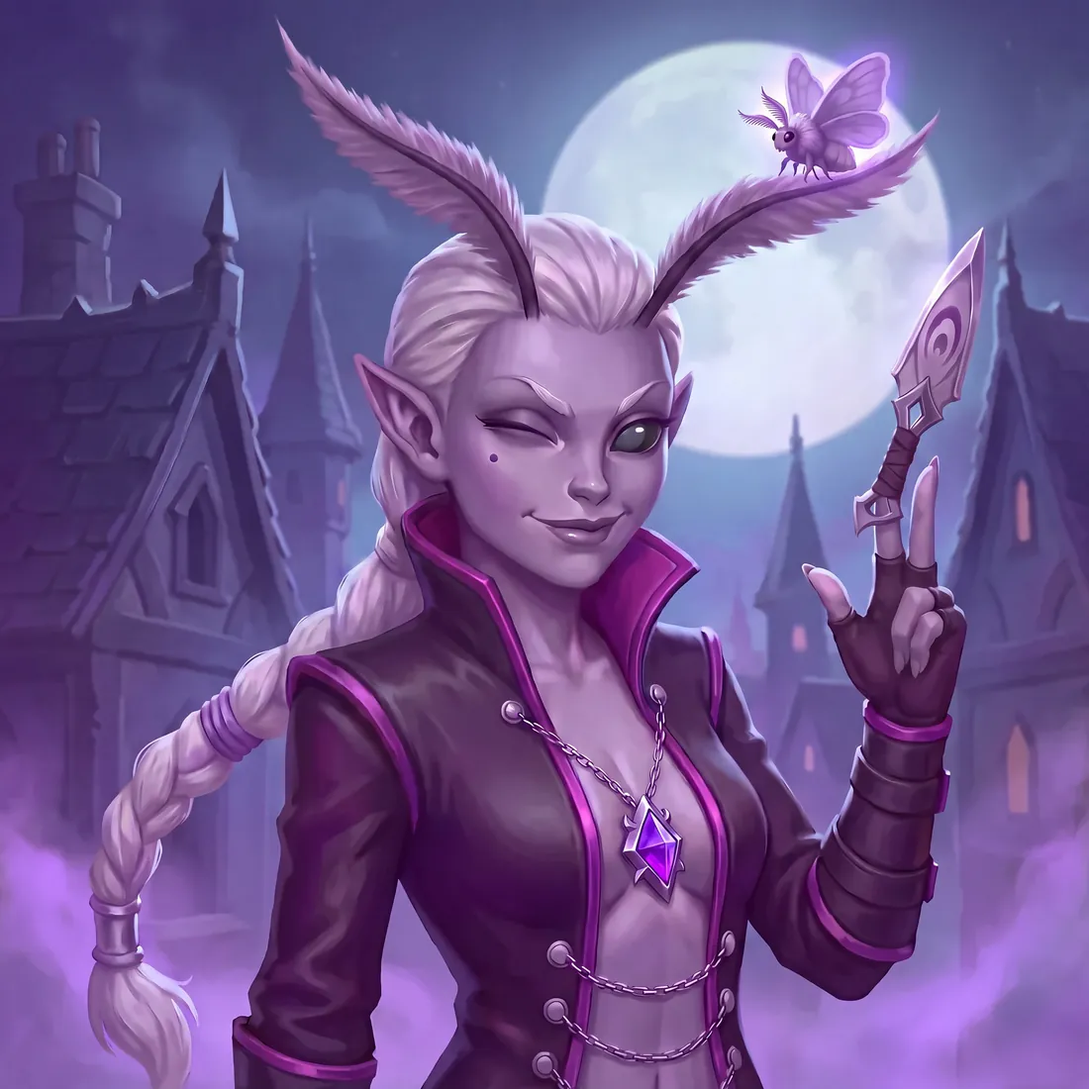
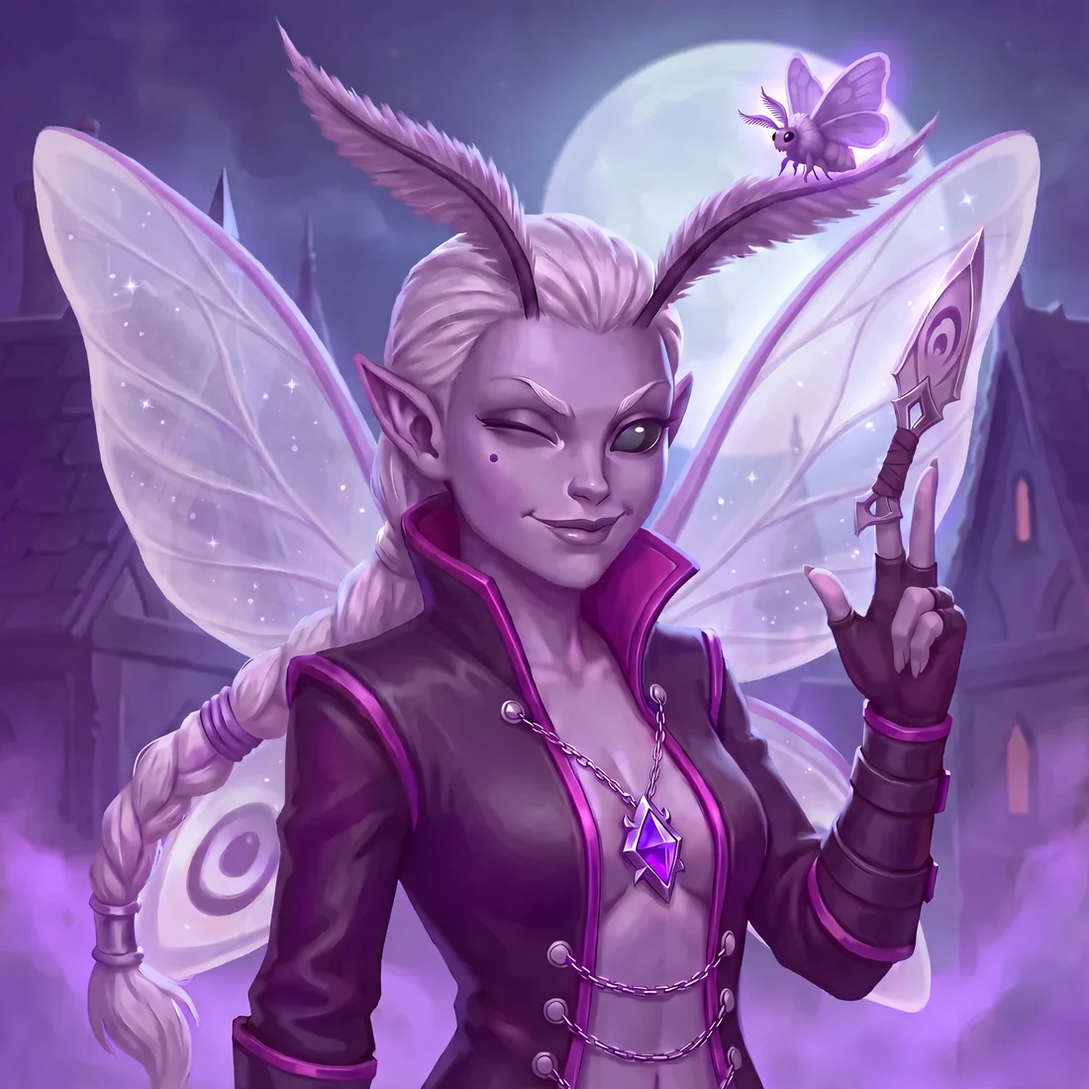
New Sable portrait
Claude-Session: https://claude.ai/code/session_015vSSPmpJoF22Rm1LS1od6V

diff --git a/index.html b/index.html
@@ -21,7 +21,7 @@
 <link rel="preload" href="assets/fonts/LilitaOne.woff2" as="font" type="font/woff2" crossorigin>
 <link rel="preload" as="image" href="assets/img/wordmark-boki-1280.webp" imagesrcset="assets/img/wordmark-boki-640.webp 640w, assets/img/wordmark-boki-1280.webp 1280w, assets/img/wordmark-boki-2000.webp 2000w" imagesizes="(max-width: 720px) 90vw, 720px">
 
-<link rel="stylesheet" href="assets/style.css?v=155">
+<link rel="stylesheet" href="assets/style.css?v=156">
 <script>
   // Hold the hero until the display font is in, so nothing jumps on load.
   (function (d) {
@@ -66,7 +66,7 @@
 <div class="hero-wrap">
 <section class="hero" id="hero" aria-label="Project Boki">
   <div class="hero-media" id="hero-media" aria-hidden="true">
-    <div class="cast"><ul class="row r0"><li><img src="assets/img/hunters/vex-face-640.webp" width="640" height="640" alt=""></li><li><img src="assets/img/hunters/motley-face-640.webp" width="640" height="640" alt=""></li><li><img src="assets/img/hunters/kael-face-640.webp" width="640" height="640" alt=""></li><li><img src="assets/img/hunters/claire-face-640.webp" width="640" height="640" alt=""></li><li><img src="assets/img/hunters/cinder-face-640.webp" width="640" height="640" alt=""></li><li><img src="assets/img/hunters/sable-face-640.webp" width="640" height="640" alt=""></li><li><img src="assets/img/hunters/ryzz-face-640.webp" width="640" height="640" alt=""></li><li><img src="assets/img/hunters/grimble-face-640.webp" width="640" height="640" alt=""></li><li><img src="assets/img/hunters/pip-face-640.webp" width="640" height="640" alt=""></li><li><img src="assets/img/hunters/breaker-face-640.webp" width="640" height="640" alt=""></li><li><img src="assets/img/hunters/lisette-face-640.webp" width="640" height="640" alt=""></li><li><img src="assets/img/hunters/tarek-face-640.webp" width="640" height="640" alt=""></li><li><img src="assets/img/hunters/vex-face-640.webp" width="640" height="640" alt=""></li><li><img src="assets/img/hunters/motley-face-640.webp" width="640" height="640" alt=""></li><li><img src="assets/img/hunters/kael-face-640.webp" width="640" height="640" alt=""></li><li><img src="assets/img/hunters/claire-face-640.webp" width="640" height="640" alt=""></li><li><img src="assets/img/hunters/cinder-face-640.webp" width="640" height="640" alt=""></li><li><img src="assets/img/hunters/sable-face-640.webp" width="640" height="640" alt=""></li><li><img src="assets/img/hunters/ryzz-face-640.webp" width="640" height="640" alt=""></li><li><img src="assets/img/hunters/grimble-face-640.webp" width="640" height="640" alt=""></li><li><img src="assets/img/hunters/pip-face-640.webp" width="640" height="640" alt=""></li><li><img src="assets/img/hunters/breaker-face-640.webp" width="640" height="640" alt=""></li><li><img src="assets/img/hunters/lisette-face-640.webp" width="640" height="640" alt=""></li><li><img src="assets/img/hunters/tarek-face-640.webp" width="640" height="640" alt=""></li></ul><ul class="row r1"><li><img src="assets/img/hunters/pip-face-640.webp" width="640" height="640" alt=""></li><li><img src="assets/img/hunters/tarek-face-640.webp" width="640" height="640" alt=""></li><li><img src="assets/img/hunters/lisette-face-640.webp" width="640" height="640" alt=""></li><li><img src="assets/img/hunters/ryzz-face-640.webp" width="640" height="640" alt=""></li><li><img src="assets/img/hunters/motley-face-640.webp" width="640" height="640" alt=""></li><li><img src="assets/img/hunters/vex-face-640.webp" width="640" height="640" alt=""></li><li><img src="assets/img/hunters/breaker-face-640.webp" width="640" height="640" alt=""></li><li><img src="assets/img/hunters/claire-face-640.webp" width="640" height="640" alt=""></li><li><img src="assets/img/hunters/sable-face-640.webp" width="640" height="640" alt=""></li><li><img src="assets/img/hunters/kael-face-640.webp" width="640" height="640" alt=""></li><li><img src="assets/img/hunters/grimble-face-640.webp" width="640" height="640" alt=""></li><li><img src="assets/img/hunters/cinder-face-640.webp" width="640" height="640" alt=""></li><li><img src="assets/img/hunters/pip-face-640.webp" width="640" height="640" alt=""></li><li><img src="assets/img/hunters/tarek-face-640.webp" width="640" height="640" alt=""></li><li><img src="assets/img/hunters/lisette-face-640.webp" width="640" height="640" alt=""></li><li><img src="assets/img/hunters/ryzz-face-640.webp" width="640" height="640" alt=""></li><li><img src="assets/img/hunters/motley-face-640.webp" width="640" height="640" alt=""></li><li><img src="assets/img/hunters/vex-face-640.webp" width="640" height="640" alt=""></li><li><img src="assets/img/hunters/breaker-face-640.webp" width="640" height="640" alt=""></li><li><img src="assets/img/hunters/claire-face-640.webp" width="640" height="640" alt=""></li><li><img src="assets/img/hunters/sable-face-640.webp" width="640" height="640" alt=""></li><li><img src="assets/img/hunters/kael-face-640.webp" width="640" height="640" alt=""></li><li><img src="assets/img/hunters/grimble-face-640.webp" width="640" height="640" alt=""></li><li><img src="assets/img/hunters/cinder-face-640.webp" width="640" height="640" alt=""></li></ul><ul class="row r2"><li><img src="assets/img/hunters/grimble-face-640.webp" width="640" height="640" alt=""></li><li><img src="assets/img/hunters/claire-face-640.webp" width="640" height="640" alt=""></li><li><img src="assets/img/hunters/sable-face-640.webp" width="640" height="640" alt=""></li><li><img src="assets/img/hunters/breaker-face-640.webp" width="640" height="640" alt=""></li><li><img src="assets/img/hunters/vex-face-640.webp" width="640" height="640" alt=""></li><li><img src="assets/img/hunters/pip-face-640.webp" width="640" height="640" alt=""></li><li><img src="assets/img/hunters/cinder-face-640.webp" width="640" height="640" alt=""></li><li><img src="assets/img/hunters/tarek-face-640.webp" width="640" height="640" alt=""></li><li><img src="assets/img/hunters/kael-face-640.webp" width="640" height="640" alt=""></li><li><img src="assets/img/hunters/lisette-face-640.webp" width="640" height="640" alt=""></li><li><img src="assets/img/hunters/ryzz-face-640.webp" width="640" height="640" alt=""></li><li><img src="assets/img/hunters/motley-face-640.webp" width="640" height="640" alt=""></li><li><img src="assets/img/hunters/grimble-face-640.webp" width="640" height="640" alt=""></li><li><img src="assets/img/hunters/claire-face-640.webp" width="640" height="640" alt=""></li><li><img src="assets/img/hunters/sable-face-640.webp" width="640" height="640" alt=""></li><li><img src="assets/img/hunters/breaker-face-640.webp" width="640" height="640" alt=""></li><li><img src="assets/img/hunters/vex-face-640.webp" width="640" height="640" alt=""></li><li><img src="assets/img/hunters/pip-face-640.webp" width="640" height="640" alt=""></li><li><img src="assets/img/hunters/cinder-face-640.webp" width="640" height="640" alt=""></li><li><img src="assets/img/hunters/tarek-face-640.webp" width="640" height="640" alt=""></li><li><img src="assets/img/hunters/kael-face-640.webp" width="640" height="640" alt=""></li><li><img src="assets/img/hunters/lisette-face-640.webp" width="640" height="640" alt=""></li><li><img src="assets/img/hunters/ryzz-face-640.webp" width="640" height="640" alt=""></li><li><img src="assets/img/hunters/motley-face-640.webp" width="640" height="640" alt=""></li></ul><ul class="row"><li><img src="assets/img/hunters/tarek-face-640.webp" width="640" height="640" alt="" loading="lazy"></li><li><img src="assets/img/hunters/sable-face-640.webp" width="640" height="640" alt="" loading="lazy"></li><li><img src="assets/img/hunters/cinder-face-640.webp" width="640" height="640" alt="" loading="lazy"></li><li><img src="assets/img/hunters/lisette-face-640.webp" width="640" height="640" alt="" loading="lazy"></li><li><img src="assets/img/hunters/pip-face-640.webp" width="640" height="640" alt="" loading="lazy"></li><li><img src="assets/img/hunters/kael-face-640.webp" width="640" height="640" alt="" loading="lazy"></li><li><img src="assets/img/hunters/motley-face-640.webp" width="640" height="640" alt="" loading="lazy"></li><li><img src="assets/img/hunters/grimble-face-640.webp" width="640" height="640" alt="" loading="lazy"></li><li><img src="assets/img/hunters/vex-face-640.webp" width="640" height="640" alt="" loading="lazy"></li><li><img src="assets/img/hunters/claire-face-640.webp" width="640" height="640" alt="" loading="lazy"></li><li><img src="assets/img/hunters/breaker-face-640.webp" width="640" height="640" alt="" loading="lazy"></li><li><img src="assets/img/hunters/ryzz-face-640.webp" width="640" height="640" alt="" loading="lazy"></li><li><img src="assets/img/hunters/tarek-face-640.webp" width="640" height="640" alt="" loading="lazy"></li><li><img src="assets/img/hunters/sable-face-640.webp" width="640" height="640" alt="" loading="lazy"></li><li><img src="assets/img/hunters/cinder-face-640.webp" width="640" height="640" alt="" loading="lazy"></li><li><img src="assets/img/hunters/lisette-face-640.webp" width="640" height="640" alt="" loading="lazy"></li><li><img src="assets/img/hunters/pip-face-640.webp" width="640" height="640" alt="" loading="lazy"></li><li><img src="assets/img/hunters/kael-face-640.webp" width="640" height="640" alt="" loading="lazy"></li><li><img src="assets/img/hunters/motley-face-640.webp" width="640" height="640" alt="" loading="lazy"></li><li><img src="assets/img/hunters/grimble-face-640.webp" width="640" height="640" alt="" loading="lazy"></li><li><img src="assets/img/hunters/vex-face-640.webp" width="640" height="640" alt="" loading="lazy"></li><li><img src="assets/img/hunters/claire-face-640.webp" width="640" height="640" alt="" loading="lazy"></li><li><img src="assets/img/hunters/breaker-face-640.webp" width="640" height="640" alt="" loading="lazy"></li><li><img src="assets/img/hunters/ryzz-face-640.webp" width="640" height="640" alt="" loading="lazy"></li></ul><ul class="row"><li><img src="assets/img/hunters/breaker-face-640.webp" width="640" height="640" alt="" loading="lazy"></li><li><img src="assets/img/hunters/ryzz-face-640.webp" width="640" height="640" alt="" loading="lazy"></li><li><img src="assets/img/hunters/vex-face-640.webp" width="640" height="640" alt="" loading="lazy"></li><li><img src="assets/img/hunters/kael-face-640.webp" width="640" height="640" alt="" loading="lazy"></li><li><img src="assets/img/hunters/grimble-face-640.webp" width="640" height="640" alt="" loading="lazy"></li><li><img src="assets/img/hunters/lisette-face-640.webp" width="640" height="640" alt="" loading="lazy"></li><li><img src="assets/img/hunters/claire-face-640.webp" width="640" height="640" alt="" loading="lazy"></li><li><img src="assets/img/hunters/pip-face-640.webp" width="640" height="640" alt="" loading="lazy"></li><li><img src="assets/img/hunters/motley-face-640.webp" width="640" height="640" alt="" loading="lazy"></li><li><img src="assets/img/hunters/tarek-face-640.webp" width="640" height="640" alt="" loading="lazy"></li><li><img src="assets/img/hunters/cinder-face-640.webp" width="640" height="640" alt="" loading="lazy"></li><li><img src="assets/img/hunters/sable-face-640.webp" width="640" height="640" alt="" loading="lazy"></li><li><img src="assets/img/hunters/breaker-face-640.webp" width="640" height="640" alt="" loading="lazy"></li><li><img src="assets/img/hunters/ryzz-face-640.webp" width="640" height="640" alt="" loading="lazy"></li><li><img src="assets/img/hunters/vex-face-640.webp" width="640" height="640" alt="" loading="lazy"></li><li><img src="assets/img/hunters/kael-face-640.webp" width="640" height="640" alt="" loading="lazy"></li><li><img src="assets/img/hunters/grimble-face-640.webp" width="640" height="640" alt="" loading="lazy"></li><li><img src="assets/img/hunters/lisette-face-640.webp" width="640" height="640" alt="" loading="lazy"></li><li><img src="assets/img/hunters/claire-face-640.webp" width="640" height="640" alt="" loading="lazy"></li><li><img src="assets/img/hunters/pip-face-640.webp" width="640" height="640" alt="" loading="lazy"></li><li><img src="assets/img/hunters/motley-face-640.webp" width="640" height="640" alt="" loading="lazy"></li><li><img src="assets/img/hunters/tarek-face-640.webp" width="640" height="640" alt="" loading="lazy"></li><li><img src="assets/img/hunters/cinder-face-640.webp" width="640" height="640" alt="" loading="lazy"></li><li><img src="assets/img/hunters/sable-face-640.webp" width="640" height="640" alt="" loading="lazy"></li></ul></div>
+    <div class="cast"><ul class="row r0"><li><img src="assets/img/hunters/vex-face-640.webp" width="640" height="640" alt=""></li><li><img src="assets/img/hunters/motley-face-640.webp" width="640" height="640" alt=""></li><li><img src="assets/img/hunters/kael-face-640.webp" width="640" height="640" alt=""></li><li><img src="assets/img/hunters/claire-face-640.webp" width="640" height="640" alt=""></li><li><img src="assets/img/hunters/cinder-face-640.webp" width="640" height="640" alt=""></li><li><img src="assets/img/hunters/sable-face-640.webp?v=2026-11-09c" width="640" height="640" alt=""></li><li><img src="assets/img/hunters/ryzz-face-640.webp" width="640" height="640" alt=""></li><li><img src="assets/img/hunters/grimble-face-640.webp" width="640" height="640" alt=""></li><li><img src="assets/img/hunters/pip-face-640.webp" width="640" height="640" alt=""></li><li><img src="assets/img/hunters/breaker-face-640.webp" width="640" height="640" alt=""></li><li><img src="assets/img/hunters/lisette-face-640.webp" width="640" height="640" alt=""></li><li><img src="assets/img/hunters/tarek-face-640.webp" width="640" height="640" alt=""></li><li><img src="assets/img/hunters/vex-face-640.webp" width="640" height="640" alt=""></li><li><img src="assets/img/hunters/motley-face-640.webp" width="640" height="640" alt=""></li><li><img src="assets/img/hunters/kael-face-640.webp" width="640" height="640" alt=""></li><li><img src="assets/img/hunters/claire-face-640.webp" width="640" height="640" alt=""></li><li><img src="assets/img/hunters/cinder-face-640.webp" width="640" height="640" alt=""></li><li><img src="assets/img/hunters/sable-face-640.webp?v=2026-11-09c" width="640" height="640" alt=""></li><li><img src="assets/img/hunters/ryzz-face-640.webp" width="640" height="640" alt=""></li><li><img src="assets/img/hunters/grimble-face-640.webp" width="640" height="640" alt=""></li><li><img src="assets/img/hunters/pip-face-640.webp" width="640" height="640" alt=""></li><li><img src="assets/img/hunters/breaker-face-640.webp" width="640" height="640" alt=""></li><li><img src="assets/img/hunters/lisette-face-640.webp" width="640" height="640" alt=""></li><li><img src="assets/img/hunters/tarek-face-640.webp" width="640" height="640" alt=""></li></ul><ul class="row r1"><li><img src="assets/img/hunters/pip-face-640.webp" width="640" height="640" alt=""></li><li><img src="assets/img/hunters/tarek-face-640.webp" width="640" height="640" alt=""></li><li><img src="assets/img/hunters/lisette-face-640.webp" width="640" height="640" alt=""></li><li><img src="assets/img/hunters/ryzz-face-640.webp" width="640" height="640" alt=""></li><li><img src="assets/img/hunters/motley-face-640.webp" width="640" height="640" alt=""></li><li><img src="assets/img/hunters/vex-face-640.webp" width="640" height="640" alt=""></li><li><img src="assets/img/hunters/breaker-face-640.webp" width="640" height="640" alt=""></li><li><img src="assets/img/hunters/claire-face-640.webp" width="640" height="640" alt=""></li><li><img src="assets/img/hunters/sable-face-640.webp?v=2026-11-09c" width="640" height="640" alt=""></li><li><img src="assets/img/hunters/kael-face-640.webp" width="640" height="640" alt=""></li><li><img src="assets/img/hunters/grimble-face-640.webp" width="640" height="640" alt=""></li><li><img src="assets/img/hunters/cinder-face-640.webp" width="640" height="640" alt=""></li><li><img src="assets/img/hunters/pip-face-640.webp" width="640" height="640" alt=""></li><li><img src="assets/img/hunters/tarek-face-640.webp" width="640" height="640" alt=""></li><li><img src="assets/img/hunters/lisette-face-640.webp" width="640" height="640" alt=""></li><li><img src="assets/img/hunters/ryzz-face-640.webp" width="640" height="640" alt=""></li><li><img src="assets/img/hunters/motley-face-640.webp" width="640" height="640" alt=""></li><li><img src="assets/img/hunters/vex-face-640.webp" width="640" height="640" alt=""></li><li><img src="assets/img/hunters/breaker-face-640.webp" width="640" height="640" alt=""></li><li><img src="assets/img/hunters/claire-face-640.webp" width="640" height="640" alt=""></li><li><img src="assets/img/hunters/sable-face-640.webp?v=2026-11-09c" width="640" height="640" alt=""></li><li><img src="assets/img/hunters/kael-face-640.webp" width="640" height="640" alt=""></li><li><img src="assets/img/hunters/grimble-face-640.webp" width="640" height="640" alt=""></li><li><img src="assets/img/hunters/cinder-face-640.webp" width="640" height="640" alt=""></li></ul><ul class="row r2"><li><img src="assets/img/hunters/grimble-face-640.webp" width="640" height="640" alt=""></li><li><img src="assets/img/hunters/claire-face-640.webp" width="640" height="640" alt=""></li><li><img src="assets/img/hunters/sable-face-640.webp?v=2026-11-09c" width="640" height="640" alt=""></li><li><img src="assets/img/hunters/breaker-face-640.webp" width="640" height="640" alt=""></li><li><img src="assets/img/hunters/vex-face-640.webp" width="640" height="640" alt=""></li><li><img src="assets/img/hunters/pip-face-640.webp" width="640" height="640" alt=""></li><li><img src="assets/img/hunters/cinder-face-640.webp" width="640" height="640" alt=""></li><li><img src="assets/img/hunters/tarek-face-640.webp" width="640" height="640" alt=""></li><li><img src="assets/img/hunters/kael-face-640.webp" width="640" height="640" alt=""></li><li><img src="assets/img/hunters/lisette-face-640.webp" width="640" height="640" alt=""></li><li><img src="assets/img/hunters/ryzz-face-640.webp" width="640" height="640" alt=""></li><li><img src="assets/img/hunters/motley-face-640.webp" width="640" height="640" alt=""></li><li><img src="assets/img/hunters/grimble-face-640.webp" width="640" height="640" alt=""></li><li><img src="assets/img/hunters/claire-face-640.webp" width="640" height="640" alt=""></li><li><img src="assets/img/hunters/sable-face-640.webp?v=2026-11-09c" width="640" height="640" alt=""></li><li><img src="assets/img/hunters/breaker-face-640.webp" width="640" height="640" alt=""></li><li><img src="assets/img/hunters/vex-face-640.webp" width="640" height="640" alt=""></li><li><img src="assets/img/hunters/pip-face-640.webp" width="640" height="640" alt=""></li><li><img src="assets/img/hunters/cinder-face-640.webp" width="640" height="640" alt=""></li><li><img src="assets/img/hunters/tarek-face-640.webp" width="640" height="640" alt=""></li><li><img src="assets/img/hunters/kael-face-640.webp" width="640" height="640" alt=""></li><li><img src="assets/img/hunters/lisette-face-640.webp" width="640" height="640" alt=""></li><li><img src="assets/img/hunters/ryzz-face-640.webp" width="640" height="640" alt=""></li><li><img src="assets/img/hunters/motley-face-640.webp" width="640" height="640" alt=""></li></ul><ul class="row"><li><img src="assets/img/hunters/tarek-face-640.webp" width="640" height="640" alt="" loading="lazy"></li><li><img src="assets/img/hunters/sable-face-640.webp?v=2026-11-09c" width="640" height="640" alt="" loading="lazy"></li><li><img src="assets/img/hunters/cinder-face-640.webp" width="640" height="640" alt="" loading="lazy"></li><li><img src="assets/img/hunters/lisette-face-640.webp" width="640" height="640" alt="" loading="lazy"></li><li><img src="assets/img/hunters/pip-face-640.webp" width="640" height="640" alt="" loading="lazy"></li><li><img src="assets/img/hunters/kael-face-640.webp" width="640" height="640" alt="" loading="lazy"></li><li><img src="assets/img/hunters/motley-face-640.webp" width="640" height="640" alt="" loading="lazy"></li><li><img src="assets/img/hunters/grimble-face-640.webp" width="640" height="640" alt="" loading="lazy"></li><li><img src="assets/img/hunters/vex-face-640.webp" width="640" height="640" alt="" loading="lazy"></li><li><img src="assets/img/hunters/claire-face-640.webp" width="640" height="640" alt="" loading="lazy"></li><li><img src="assets/img/hunters/breaker-face-640.webp" width="640" height="640" alt="" loading="lazy"></li><li><img src="assets/img/hunters/ryzz-face-640.webp" width="640" height="640" alt="" loading="lazy"></li><li><img src="assets/img/hunters/tarek-face-640.webp" width="640" height="640" alt="" loading="lazy"></li><li><img src="assets/img/hunters/sable-face-640.webp?v=2026-11-09c" width="640" height="640" alt="" loading="lazy"></li><li><img src="assets/img/hunters/cinder-face-640.webp" width="640" height="640" alt="" loading="lazy"></li><li><img src="assets/img/hunters/lisette-face-640.webp" width="640" height="640" alt="" loading="lazy"></li><li><img src="assets/img/hunters/pip-face-640.webp" width="640" height="640" alt="" loading="lazy"></li><li><img src="assets/img/hunters/kael-face-640.webp" width="640" height="640" alt="" loading="lazy"></li><li><img src="assets/img/hunters/motley-face-640.webp" width="640" height="640" alt="" loading="lazy"></li><li><img src="assets/img/hunters/grimble-face-640.webp" width="640" height="640" alt="" loading="lazy"></li><li><img src="assets/img/hunters/vex-face-640.webp" width="640" height="640" alt="" loading="lazy"></li><li><img src="assets/img/hunters/claire-face-640.webp" width="640" height="640" alt="" loading="lazy"></li><li><img src="assets/img/hunters/breaker-face-640.webp" width="640" height="640" alt="" loading="lazy"></li><li><img src="assets/img/hunters/ryzz-face-640.webp" width="640" height="640" alt="" loading="lazy"></li></ul><ul class="row"><li><img src="assets/img/hunters/breaker-face-640.webp" width="640" height="640" alt="" loading="lazy"></li><li><img src="assets/img/hunters/ryzz-face-640.webp" width="640" height="640" alt="" loading="lazy"></li><li><img src="assets/img/hunters/vex-face-640.webp" width="640" height="640" alt="" loading="lazy"></li><li><img src="assets/img/hunters/kael-face-640.webp" width="640" height="640" alt="" loading="lazy"></li><li><img src="assets/img/hunters/grimble-face-640.webp" width="640" height="640" alt="" loading="lazy"></li><li><img src="assets/img/hunters/lisette-face-640.webp" width="640" height="640" alt="" loading="lazy"></li><li><img src="assets/img/hunters/claire-face-640.webp" width="640" height="640" alt="" loading="lazy"></li><li><img src="assets/img/hunters/pip-face-640.webp" width="640" height="640" alt="" loading="lazy"></li><li><img src="assets/img/hunters/motley-face-640.webp" width="640" height="640" alt="" loading="lazy"></li><li><img src="assets/img/hunters/tarek-face-640.webp" width="640" height="640" alt="" loading="lazy"></li><li><img src="assets/img/hunters/cinder-face-640.webp" width="640" height="640" alt="" loading="lazy"></li><li><img src="assets/img/hunters/sable-face-640.webp?v=2026-11-09c" width="640" height="640" alt="" loading="lazy"></li><li><img src="assets/img/hunters/breaker-face-640.webp" width="640" height="640" alt="" loading="lazy"></li><li><img src="assets/img/hunters/ryzz-face-640.webp" width="640" height="640" alt="" loading="lazy"></li><li><img src="assets/img/hunters/vex-face-640.webp" width="640" height="640" alt="" loading="lazy"></li><li><img src="assets/img/hunters/kael-face-640.webp" width="640" height="640" alt="" loading="lazy"></li><li><img src="assets/img/hunters/grimble-face-640.webp" width="640" height="640" alt="" loading="lazy"></li><li><img src="assets/img/hunters/lisette-face-640.webp" width="640" height="640" alt="" loading="lazy"></li><li><img src="assets/img/hunters/claire-face-640.webp" width="640" height="640" alt="" loading="lazy"></li><li><img src="assets/img/hunters/pip-face-640.webp" width="640" height="640" alt="" loading="lazy"></li><li><img src="assets/img/hunters/motley-face-640.webp" width="640" height="640" alt="" loading="lazy"></li><li><img src="assets/img/hunters/tarek-face-640.webp" width="640" height="640" alt="" loading="lazy"></li><li><img src="assets/img/hunters/cinder-face-640.webp" width="640" height="640" alt="" loading="lazy"></li><li><img src="assets/img/hunters/sable-face-640.webp?v=2026-11-09c" width="640" height="640" alt="" loading="lazy"></li></ul></div>
   </div>
   <i class="hero-dim" id="hero-dim" aria-hidden="true"></i>
   <div class="hero-in" id="hero-in">
@@ -237,6 +237,6 @@
   <symbol id="i-play" viewBox="0 0 24 24"><path d="M7 4.5v15a1 1 0 0 0 1.5.86l12.4-7.5a1 1 0 0 0 0-1.72L8.5 3.64A1 1 0 0 0 7 4.5Z"/></symbol>
 </svg>
 
-<script src="assets/site.js?v=141"></script>
+<script src="assets/site.js?v=142"></script>
 </body>
 </html>

diff --git a/presskit.html b/presskit.html
@@ -11,7 +11,7 @@
 <link rel="apple-touch-icon" href="/assets/img/apple-touch-icon.png">
 <meta property="og:title" content="Project Boki press kit">
 <meta property="og:image" content="https://projectboki.com/assets/img/og.jpg?v=8">
-<link rel="stylesheet" href="assets/style.css?v=155">
+<link rel="stylesheet" href="assets/style.css?v=156">
 <link rel="canonical" href="https://projectboki.com/presskit.html">
 <link rel="manifest" href="/site.webmanifest">
 </head>
@@ -117,6 +117,6 @@
   <div class="consent-b"><button class="btn btn-glass btn-sm" type="button" data-no>Decline</button><button class="btn btn-solid btn-sm" type="button" data-yes>Accept</button></div>
 </div>
 
-<script src="assets/site.js?v=140"></script>
+<script src="assets/site.js?v=141"></script>
 </body>
 </html>

diff --git a/privacy.html b/privacy.html
@@ -9,7 +9,7 @@
 <link rel="icon" href="/favicon.ico" sizes="any">
 <link rel="icon" href="/assets/img/favicon.png" type="image/png">
 <link rel="apple-touch-icon" href="/assets/img/apple-touch-icon.png">
-<link rel="stylesheet" href="assets/style.css?v=155">
+<link rel="stylesheet" href="assets/style.css?v=156">
 <link rel="canonical" href="https://projectboki.com/privacy.html">
 <link rel="manifest" href="/site.webmanifest">
 </head>
@@ -71,6 +71,6 @@
   <div class="consent-b"><button class="btn btn-glass btn-sm" type="button" data-no>Decline</button><button class="btn btn-solid btn-sm" type="button" data-yes>Accept</button></div>
 </div>
 
-<script src="assets/site.js?v=140"></script>
+<script src="assets/site.js?v=141"></script>
 </body>
 </html>

diff --git a/assets/site.js b/assets/site.js
@@ -265,7 +265,7 @@ const pick = document.getElementById("h-pick");
 if (pick) {
   const art = document.getElementById("h-art");
   const $ = (id) => document.getElementById(id);
-  const ART_V = "2026-11-09b";
+  const ART_V = "2026-11-09c";
   const src = (id, w) => `assets/img/hunters/${id}-${w}.webp?v=${ART_V}`;
   const set = (id) => `${src(id, 960)} 960w, ${src(id, 1600)} 1600w, ${src(id, 2400)} 2400w`;
   let current = 0;

diff --git a/404.html b/404.html
@@ -7,7 +7,7 @@
 <link rel="icon" href="/favicon.ico" sizes="any">
 <link rel="icon" href="/assets/img/favicon.png" type="image/png">
 <link rel="apple-touch-icon" href="/assets/img/apple-touch-icon.png">
-<link rel="stylesheet" href="/assets/style.css?v=155">
+<link rel="stylesheet" href="/assets/style.css?v=156">
 </head>
 <body>
 <main class="nf">
